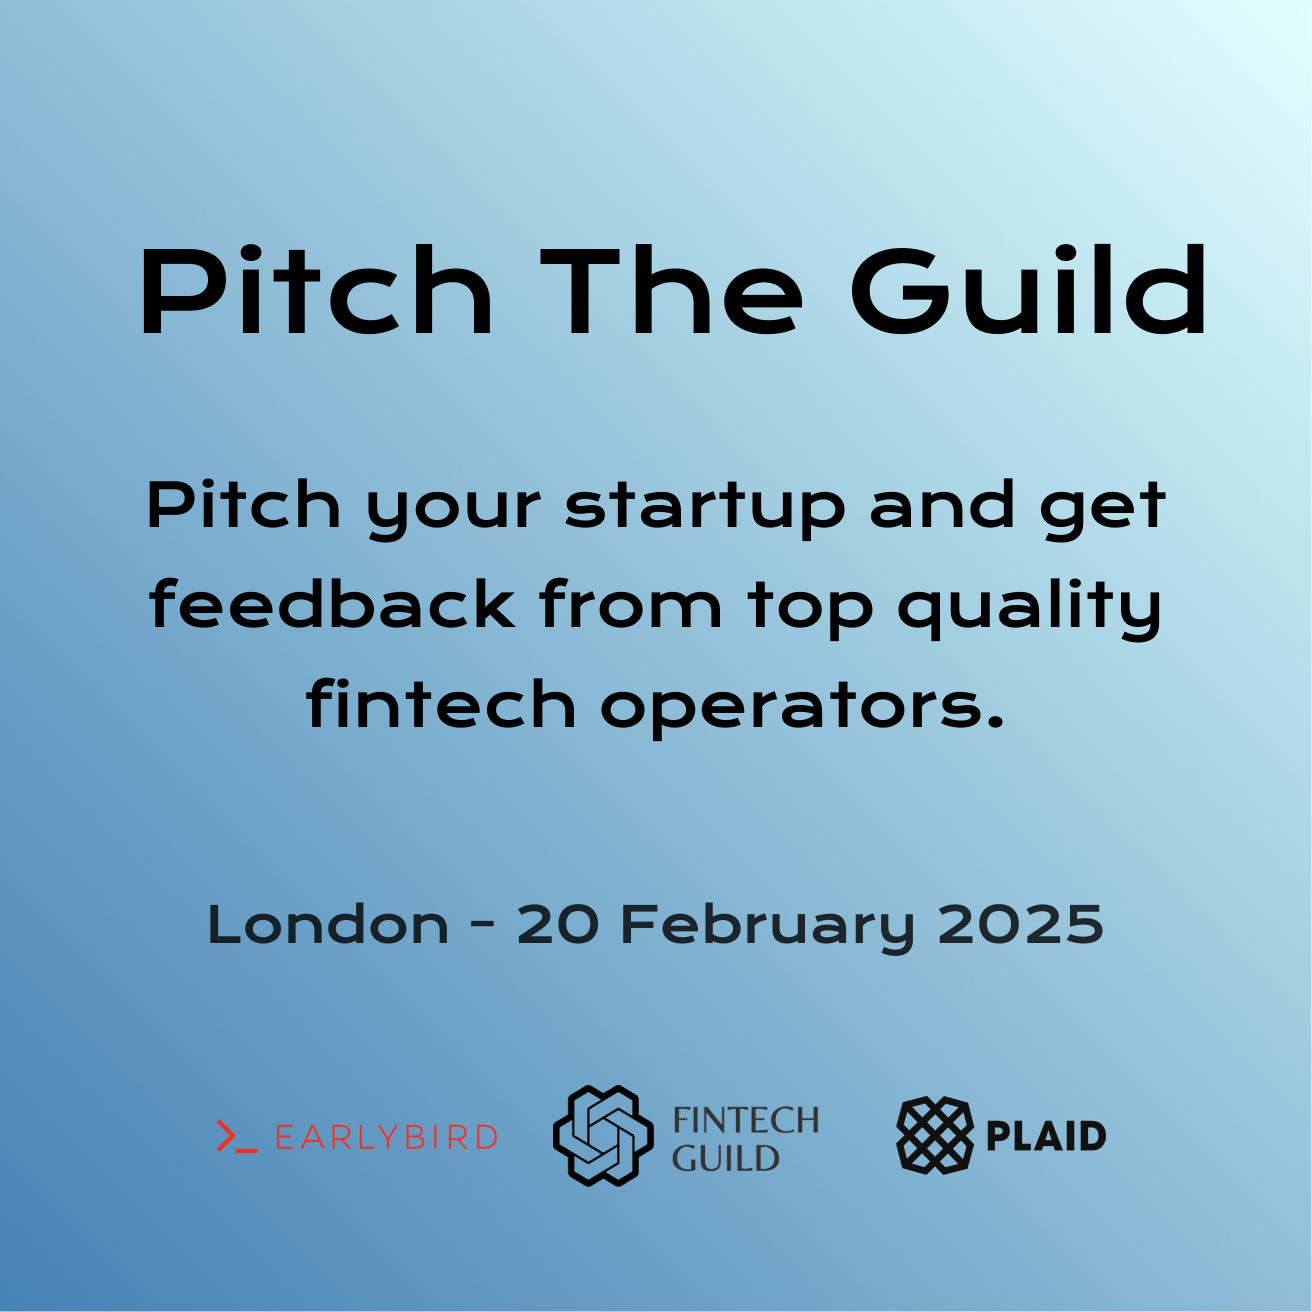
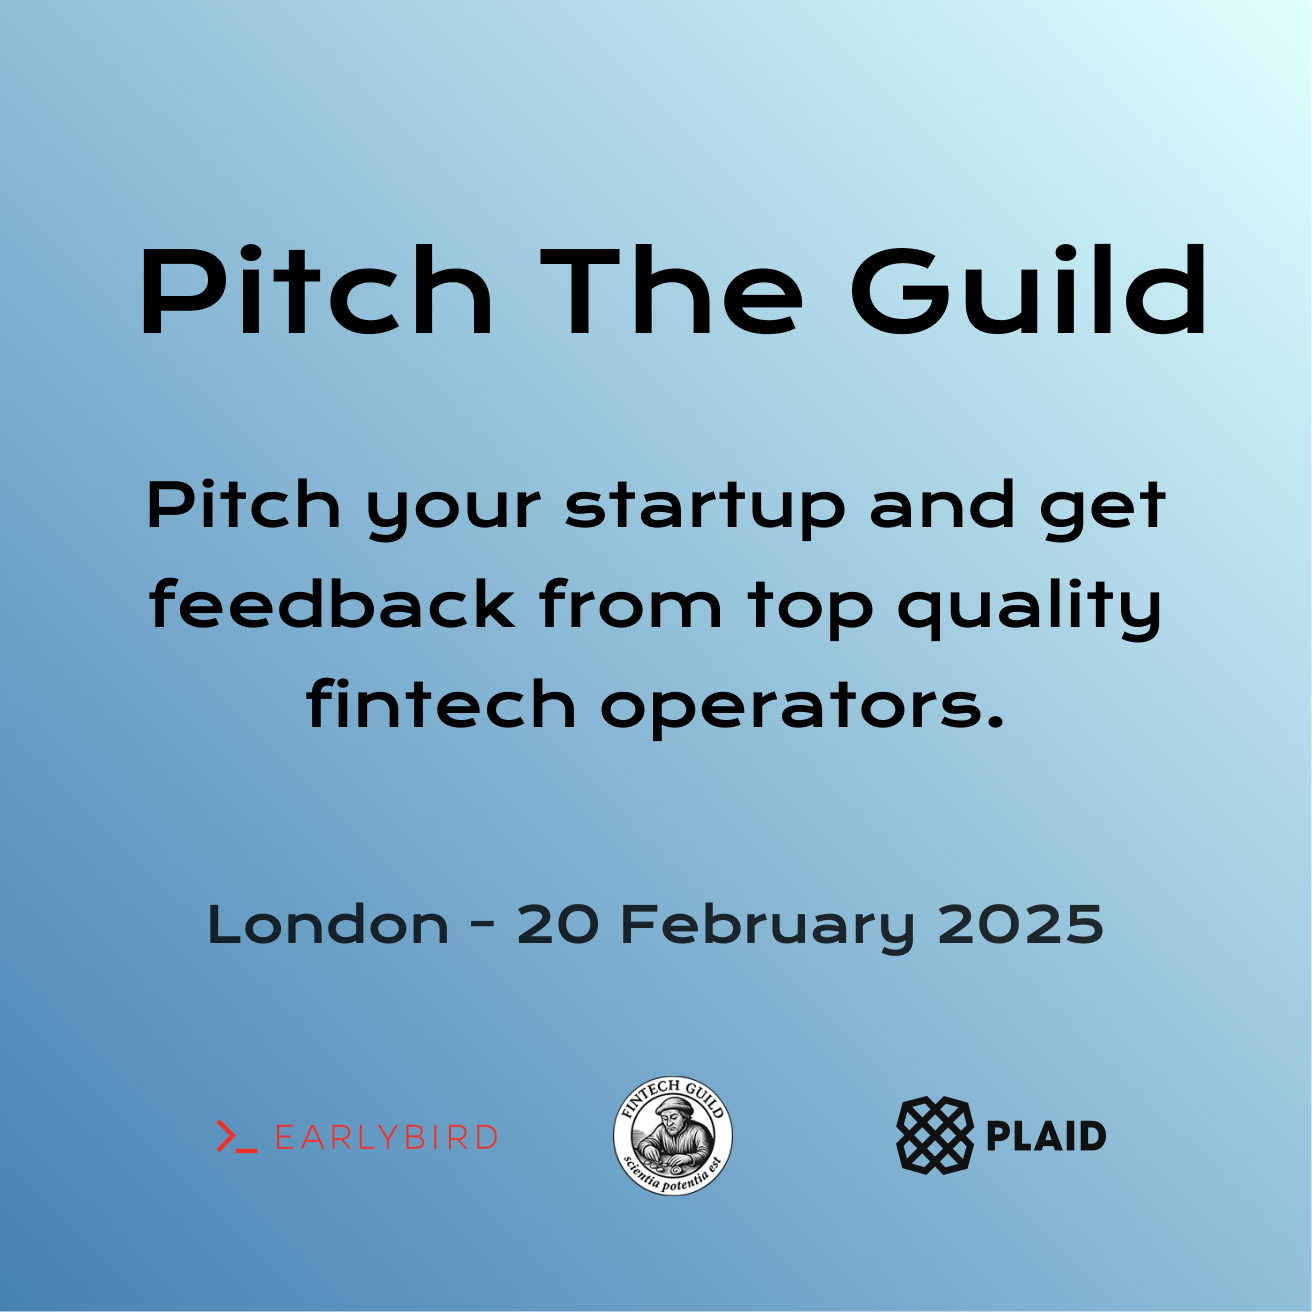
Use real Luma data for Pitch the Guild #1 and #2 pages
Replaces the flyer's generic tagline with actual event details
pulled from the Luma listings: venue, agenda, and real attendance
numbers (48 attendees for #1, sold out at 57 for #2). Adds 2- and
3-column stat row variants since these events don't have the same
stat set as Agentic Payments / Crypto Debate.

Changed region(s): [[0.4062, 0.8125, 0.625, 0.9375]]

diff --git a/events/pitch-the-guild-2.html b/events/pitch-the-guild-2.html
@@ -53,10 +53,25 @@
       <ul class="event-detail-meta">
         <li>London &middot; February 2025</li>
       </ul>
-      <p class="event-detail-brief body-serif">Pitch your startup and get feedback from top quality fintech operators.</p>
+      <p class="event-detail-brief body-serif">An exclusive pitch night bringing fintech operators, VCs, and angel investors together with a handful of carefully selected European startups. The evening opened with a panel on &ldquo;Fintech in the Age of AI&rdquo; before five-minute pitches and live feedback, followed by networking over food and drinks at The Loading Bay in Shoreditch.</p>
     </div>
     <div class="event-detail-hero-image">
       <img src="../images/events/pitchguild-2/flyer.png" alt="Pitch the Guild #2 event card">
+    </div>
+  </div>
+
+  <div class="event-detail-stats event-detail-stats--3">
+    <div class="event-detail-stat">
+      <span class="event-detail-stat-value">Sold Out</span>
+      <span class="event-detail-stat-label">Status</span>
+    </div>
+    <div class="event-detail-stat">
+      <span class="event-detail-stat-value">57</span>
+      <span class="event-detail-stat-label">Attendees</span>
+    </div>
+    <div class="event-detail-stat">
+      <span class="event-detail-stat-value">Feb '25</span>
+      <span class="event-detail-stat-label">20 February 2025</span>
     </div>
   </div>
 

diff --git a/events/pitch-the-guild-1.html b/events/pitch-the-guild-1.html
@@ -53,10 +53,21 @@
       <ul class="event-detail-meta">
         <li>London &middot; March 2024</li>
       </ul>
-      <p class="event-detail-brief body-serif">Pitch your startup and get feedback from top quality fintech operators.</p>
+      <p class="event-detail-brief body-serif">An exclusive pitch night bringing fintech operators, VCs, and angel investors together with a handful of carefully selected European startups &mdash; five-minute pitches, live panel feedback, and networking over food and drinks at TrueLayer&rsquo;s London HQ.</p>
     </div>
     <div class="event-detail-hero-image">
       <img src="../images/events/pitchguild-1/flyer.png" alt="Pitch the Guild #1 event card">
+    </div>
+  </div>
+
+  <div class="event-detail-stats event-detail-stats--2">
+    <div class="event-detail-stat">
+      <span class="event-detail-stat-value">48</span>
+      <span class="event-detail-stat-label">Attendees</span>
+    </div>
+    <div class="event-detail-stat">
+      <span class="event-detail-stat-value">Mar '24</span>
+      <span class="event-detail-stat-label">14 March 2024</span>
     </div>
   </div>
 

diff --git a/styles.css b/styles.css
@@ -381,6 +381,9 @@ a { color: inherit; text-decoration: none; }
   border-bottom: 0.5px solid var(--rule);
 }
 
+.event-detail-stats--2 { grid-template-columns: repeat(2, 1fr); }
+.event-detail-stats--3 { grid-template-columns: repeat(3, 1fr); }
+
 .event-detail-stat {
   padding: 20px 24px;
   text-align: center;
@@ -734,6 +737,16 @@ footer {
   .event-detail-stat:nth-child(2) { border-left: 0.5px solid var(--rule); }
   .event-detail-stat:nth-child(3) { border-left: none; border-top: 0.5px solid var(--rule); }
   .event-detail-stat:nth-child(4) { border-top: 0.5px solid var(--rule); }
+
+  .event-detail-stats--2,
+  .event-detail-stats--3 { grid-template-columns: 1fr; }
+  .event-detail-stats--2 .event-detail-stat,
+  .event-detail-stats--3 .event-detail-stat {
+    border-left: none;
+    border-top: 0.5px solid var(--rule);
+  }
+  .event-detail-stats--2 .event-detail-stat:first-child,
+  .event-detail-stats--3 .event-detail-stat:first-child { border-top: none; }
 
   .event-detail-scroll-gallery { padding: 24px 20px 0; }
   .event-detail-scroll-gallery img { flex-basis: 80%; width: 80%; height: 220px; }
